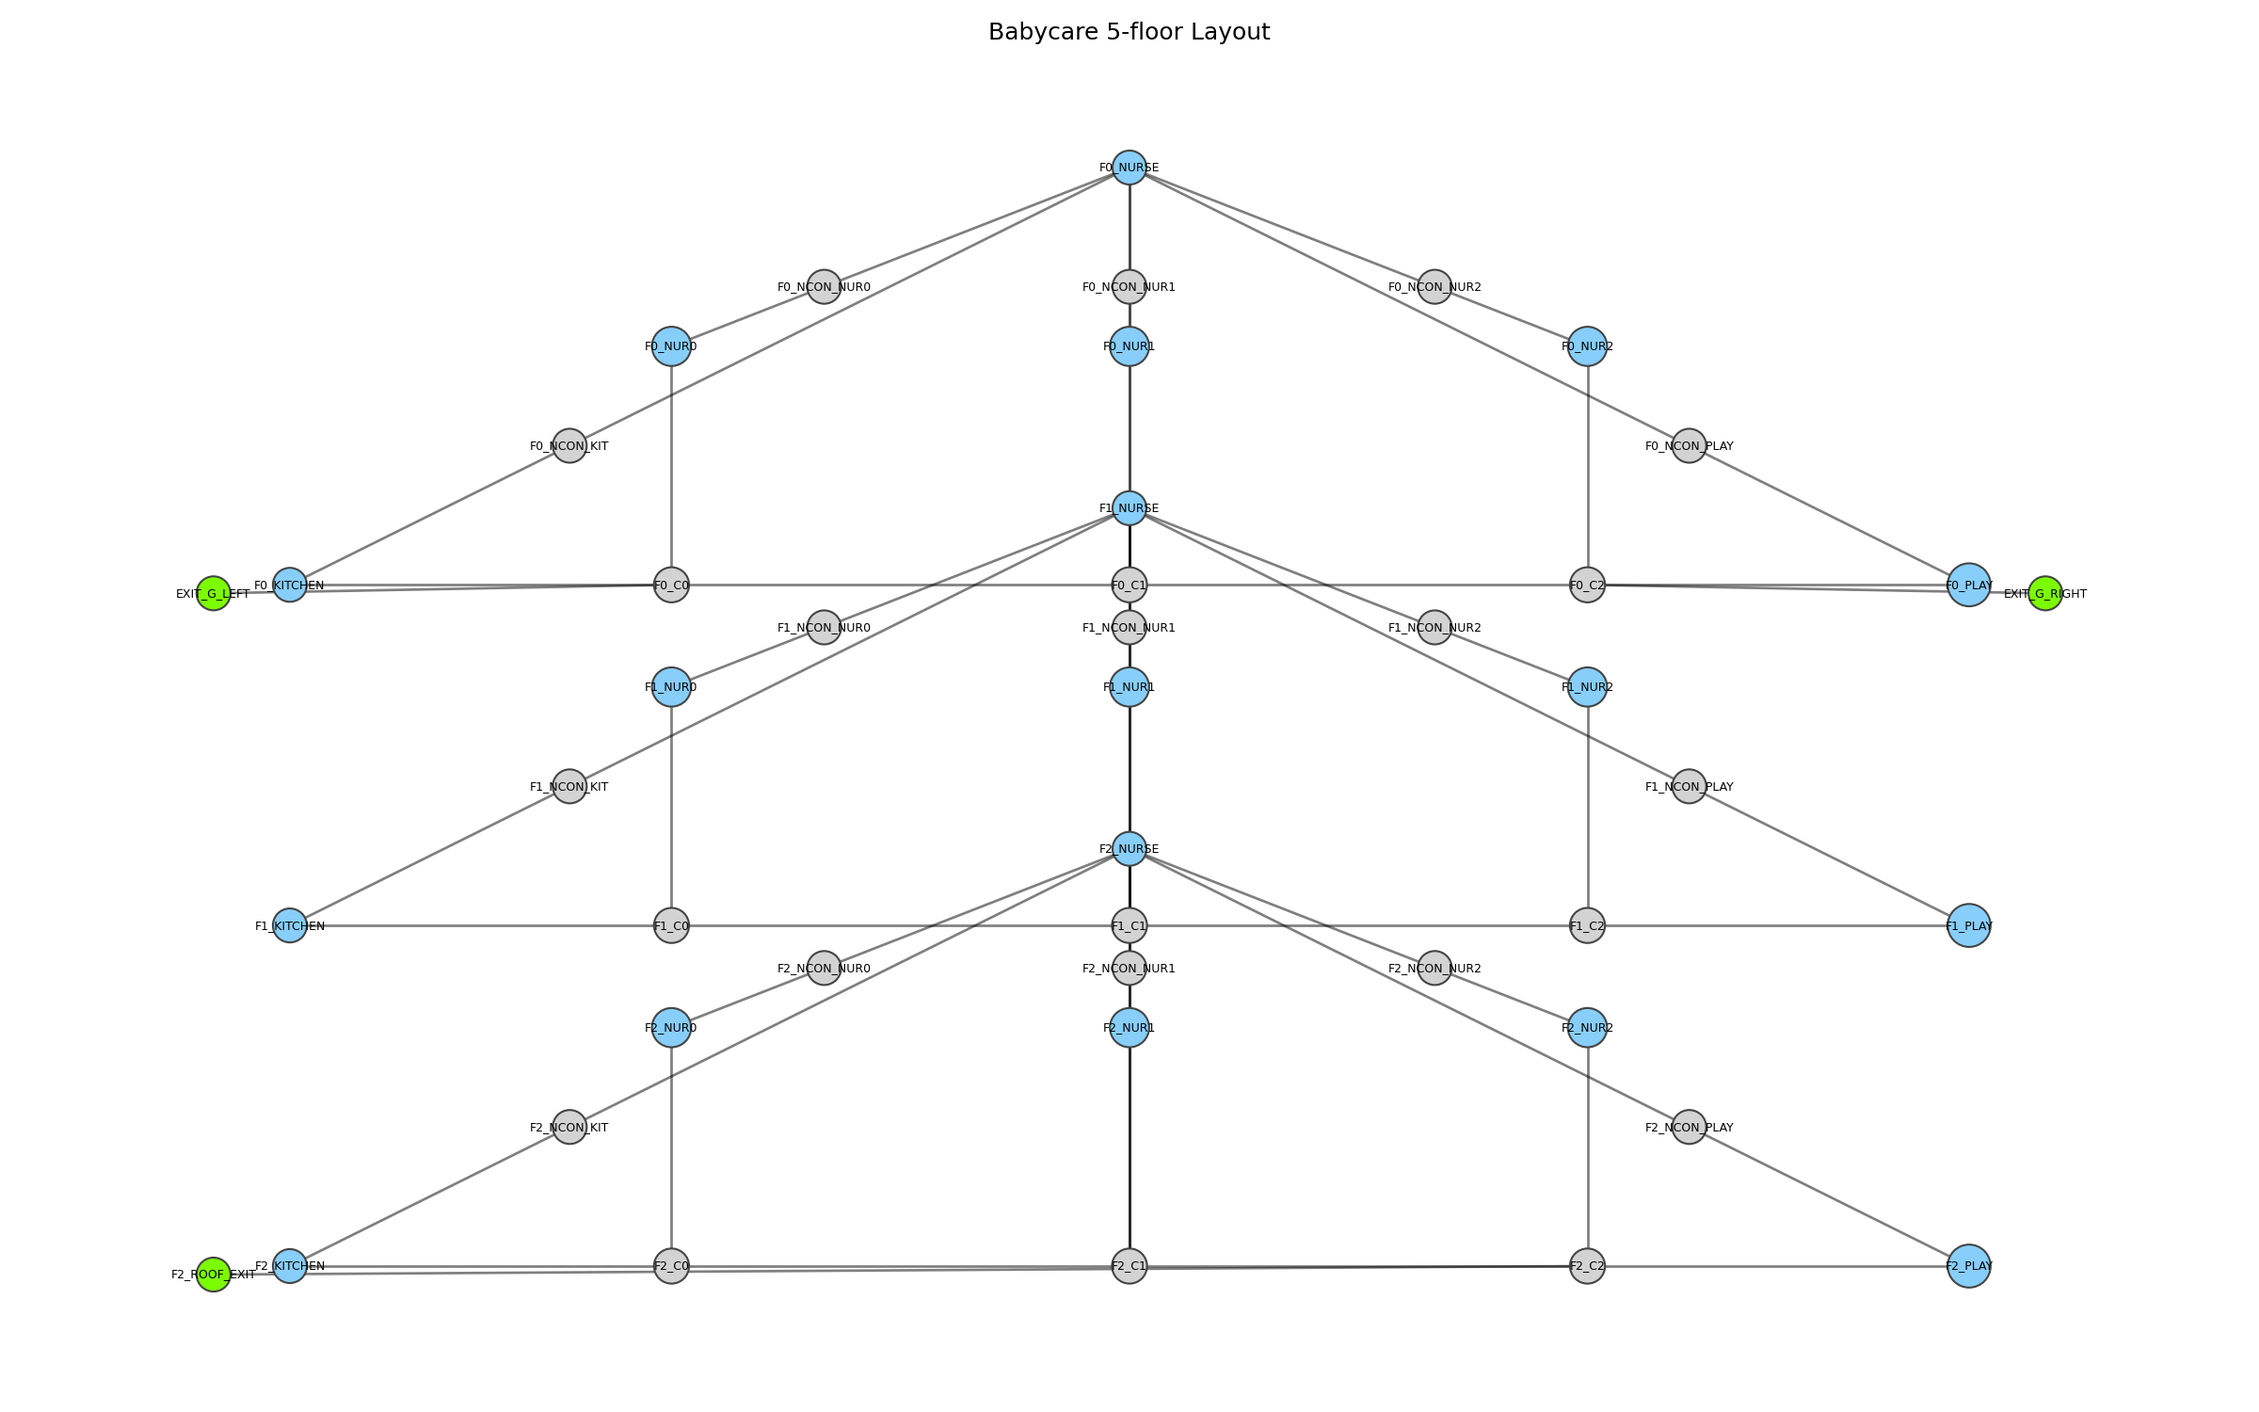
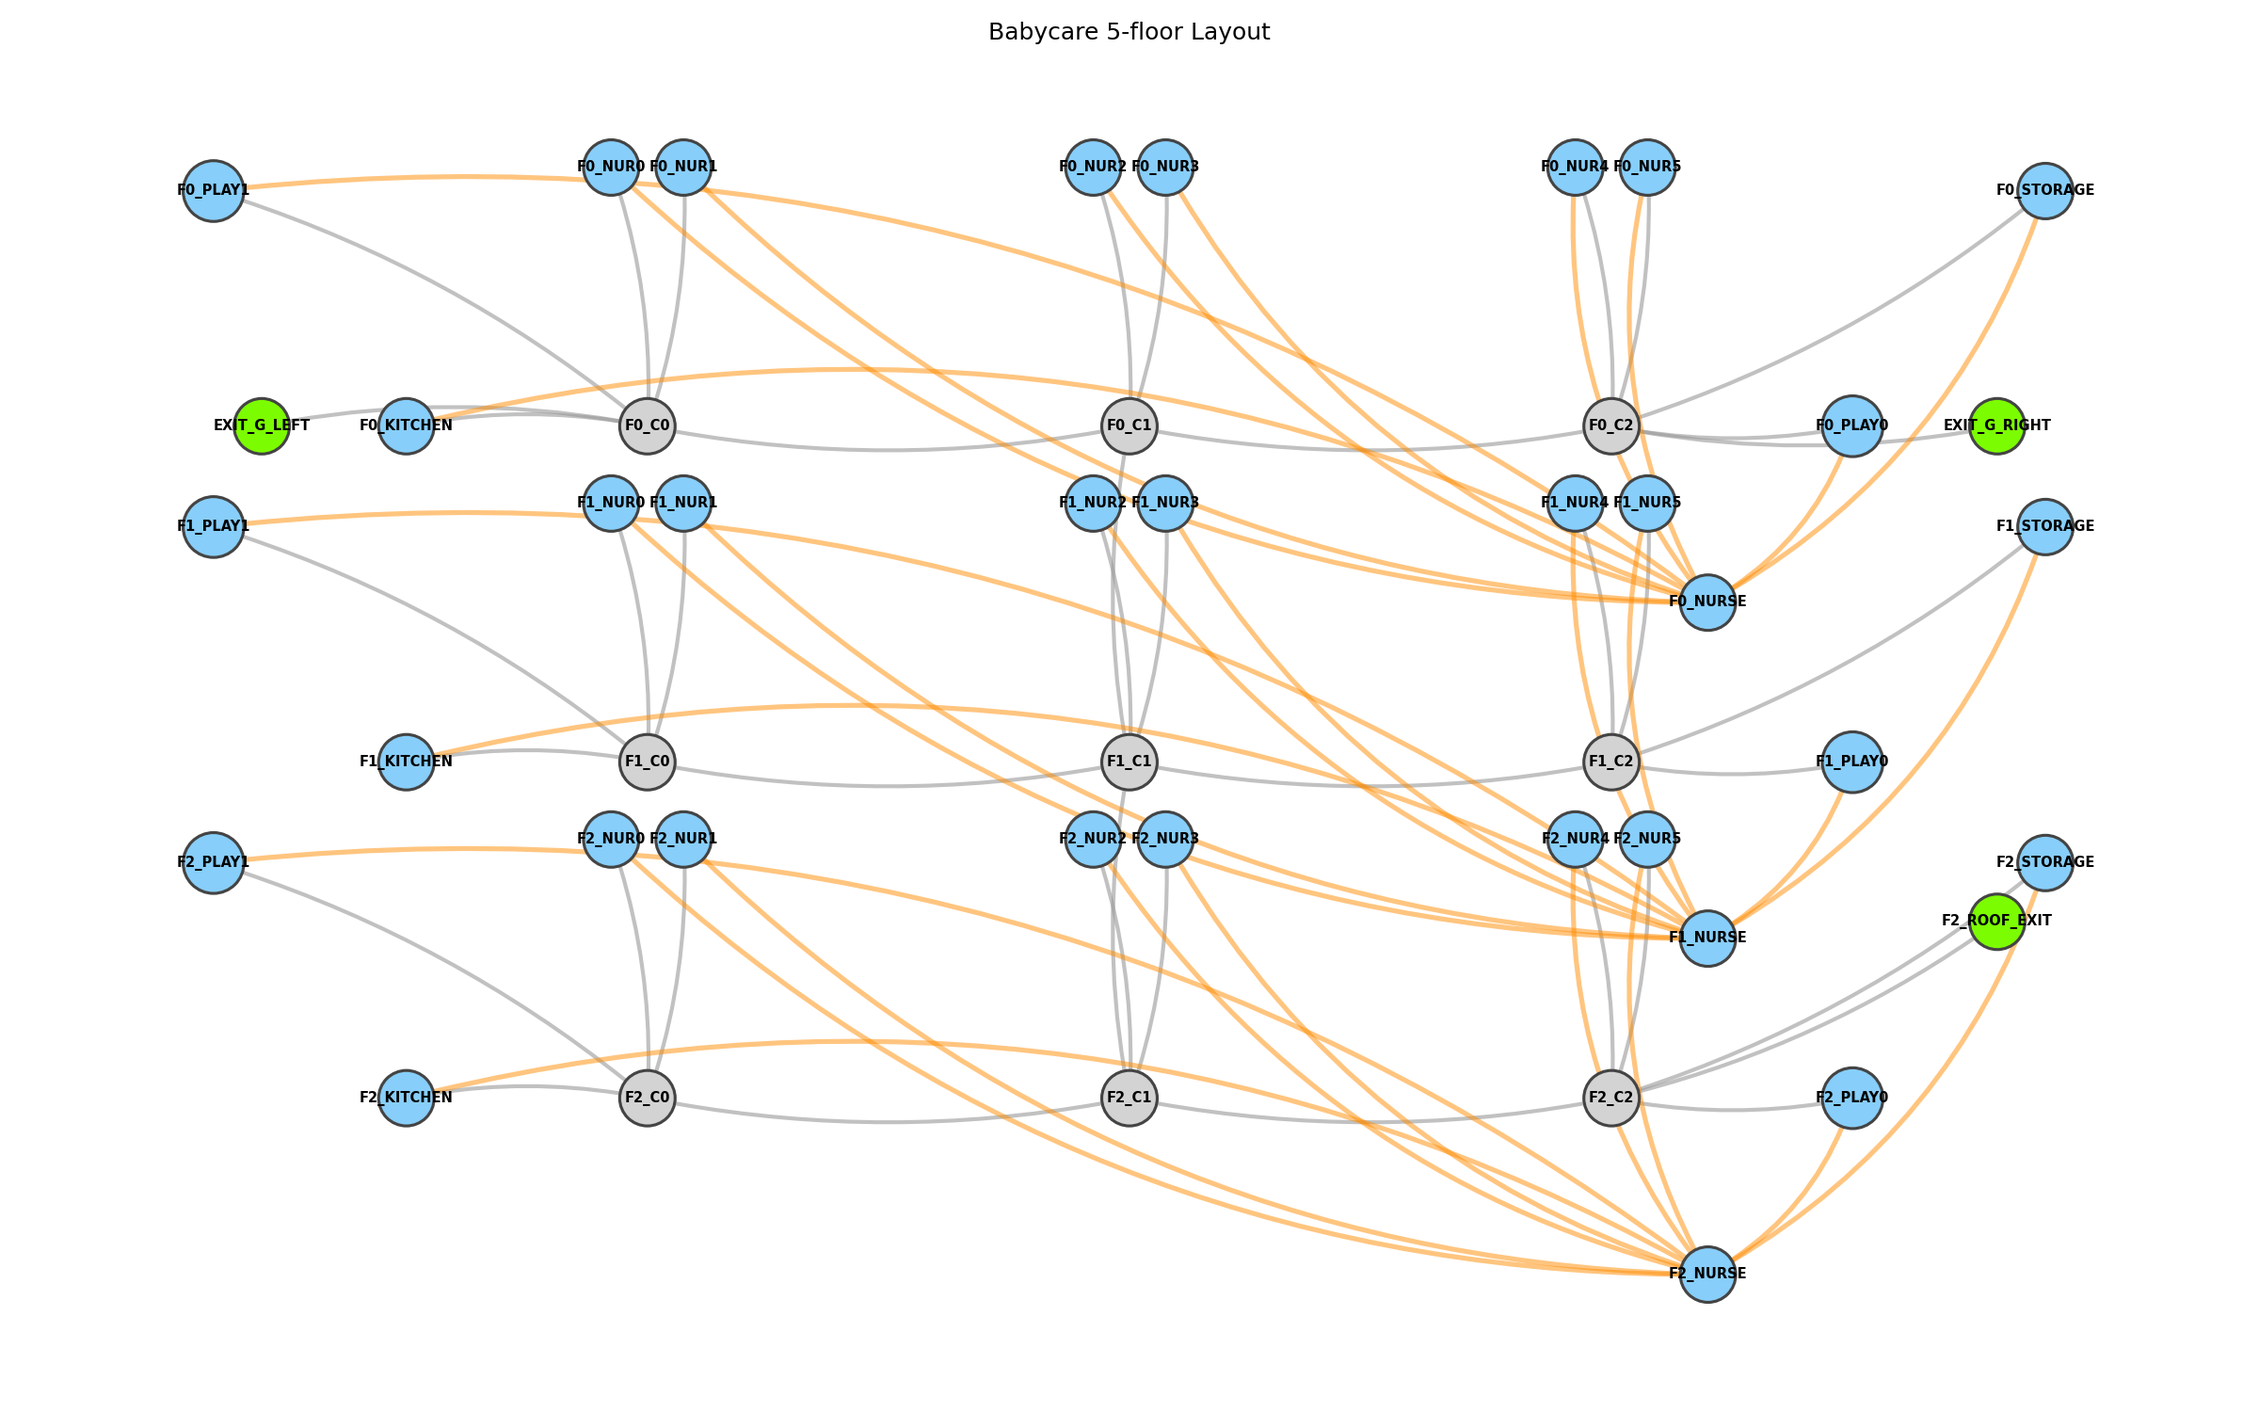
fucking visualized

diff --git a/src/scripts/visualize_layouts.py b/src/scripts/visualize_layouts.py
@@ -180,8 +180,8 @@ def compute_positions_by_floor(env):
             continue
 
         # Handle babycare floor heuristics
-        # Find any corridor nodes like F{f}_C0..C2
-        corridors = { }
+        # New clearer layout: horizontal corridors with rooms on sides, nurse station at center
+        corridors = {}
         for nid, meta in nodes:
             m = baby_corridor_re.match(nid)
             if m and int(m.group('f')) == f:
@@ -189,63 +189,73 @@ def compute_positions_by_floor(env):
                 corridors[i] = nid
 
         if corridors:
-            # order corridor indices
             idxs = sorted(corridors.keys())
             center_x = 0.0
-            # place corridors horizontally - main central axis with generous spacing
-            for pos_i, i in enumerate(idxs):
+            corridor_y = - (f * floor_gap)
+            
+            # Place corridors horizontally (C0, C1, C2)
+            # C0 on left, C1 in center, C2 on right
+            corridor_spacing = hall_x_gap * 10  # wider spacing
+            for i in idxs:
                 nid = corridors[i]
-                x = center_x + (pos_i - len(idxs)/2 + 0.5) * hall_x_gap * 6
-                y = - (f * floor_gap)
-                positions[nid] = (x, y)
+                x = center_x + (i - 1) * corridor_spacing  # C0=-10, C1=0, C2=+10
+                positions[nid] = (x, corridor_y)
 
-            # place nurse station at center top - key focal point
+            # Nurse station at lower side position to avoid overlap
             nurse_id = f"F{f}_NURSE"
             if nurse_id in env.nodes:
-                positions[nurse_id] = (center_x, - (f * floor_gap) + hall_y_gap * 3.5)
+                positions[nurse_id] = (center_x + corridor_spacing * 1.2, corridor_y - hall_y_gap * 1.5)
 
-            # place nurseries in a row above corridors, aligned and well-spaced
-            for nid, meta in nodes:
-                m = baby_nur_re.match(nid)
-                if m and int(m.group('f')) == f:
-                    r = int(m.group('r'))
-                    cor = corridors.get(r)
-                    if cor and cor in positions:
-                        cx, cy = positions[cor]
-                        # align nurseries above their corresponding corridors
-                        positions[nid] = (cx, cy + hall_y_gap * 2.0)
+            # Place nurseries: 2 nurseries per corridor, very close together
+            # NUR0, NUR1 above C0; NUR2, NUR3 above C1; NUR4, NUR5 above C2
+            for r in range(6):
+                nur_id = f"F{f}_NUR{r}"
+                if nur_id in env.nodes:
+                    corridor_idx = r // 2  # 0-1 -> C0, 2-3 -> C1, 4-5 -> C2
+                    side_offset = (r % 2 - 0.5) * hall_x_gap * 1.5  # tighter spacing
+                    cor_x = center_x + (corridor_idx - 1) * corridor_spacing
+                    positions[nur_id] = (cor_x + side_offset, corridor_y + hall_y_gap * 2.2)
 
-            # play area: place to the far right
-            play = f"F{f}_PLAY"
-            kit = f"F{f}_KITCHEN"
-            if play in env.nodes:
-                last_c = corridors.get(idxs[-1])
-                if last_c and last_c in positions:
-                    cx, cy = positions[last_c]
-                    positions[play] = (cx + hall_x_gap * 5, cy)
+            # Kitchen at far left, aligned with corridor level
+            kit_id = f"F{f}_KITCHEN"
+            if kit_id in env.nodes:
+                x = center_x - 1 * corridor_spacing - hall_x_gap * 5
+                positions[kit_id] = (x, corridor_y)
+
+            # Play areas: PLAY0 at far right, PLAY1 at left
+            play0_id = f"F{f}_PLAY0"
+            if play0_id in env.nodes:
+                x = center_x + 1 * corridor_spacing + hall_x_gap * 5
+                positions[play0_id] = (x, corridor_y)
             
-            # kitchen: place to the far left
-            if kit in env.nodes:
-                first_c = corridors.get(idxs[0])
-                if first_c and first_c in positions:
-                    cx, cy = positions[first_c]
-                    positions[kit] = (cx - hall_x_gap * 5, cy)
+            play1_id = f"F{f}_PLAY1"
+            if play1_id in env.nodes:
+                x = center_x - 1 * corridor_spacing - hall_x_gap * 9
+                positions[play1_id] = (x, corridor_y + hall_y_gap * 2)
 
-            # nurse connector halls: place strategically between rooms and nurse station
-            for nid, meta in nodes:
-                if nid.startswith(f"F{f}_NCON_"):
-                    target = None
-                    if "NUR" in nid and "_NUR" in nid:
-                        target = nid.replace("NCON_", "")
-                    elif "PLAY" in nid:
-                        target = f"F{f}_PLAY"
-                    elif "KIT" in nid:
-                        target = f"F{f}_KITCHEN"
-                    if target and target in positions and nurse_id in positions:
-                        tx, ty = positions[target]
-                        nxp, nyp = positions[nurse_id]
-                        # place connector closer to the room (2/3 of the way from nurse to room)
-                        positions[nid] = ((tx * 2 + nxp) / 3.0, (ty * 2 + nyp) / 3.0)
+            # Storage room at far right upper area
+            storage_id = f"F{f}_STORAGE"
+            if storage_id in env.nodes:
+                x = center_x + 1 * corridor_spacing + hall_x_gap * 9
+                positions[storage_id] = (x, corridor_y + hall_y_gap * 2)
+            
+            # Place exits for babycare
+            # Ground floor exits
+            if f == 0:
+                if 'EXIT_G_LEFT' in env.nodes:
+                    c0_x, c0_y = positions.get(f'F0_C0', (0, 0))
+                    positions['EXIT_G_LEFT'] = (c0_x - corridor_spacing * 0.8, c0_y)
+                if 'EXIT_G_RIGHT' in env.nodes:
+                    c2_x, c2_y = positions.get(f'F0_C2', (0, 0))
+                    positions['EXIT_G_RIGHT'] = (c2_x + corridor_spacing * 0.8, c2_y)
+            
+            # Roof exit on top floor
+            if f == 2:
+                roof_exit = 'F2_ROOF_EXIT'
+                if roof_exit in env.nodes:
+                    c2_x, c2_y = positions.get(f'F2_C2', (0, 0))
+                    positions[roof_exit] = (c2_x + corridor_spacing * 0.8, c2_y + hall_y_gap * 1.5)
+            
             processed_floors.add(f)
             continue
 
@@ -314,17 +324,43 @@ def draw_env(env, out_path, title=None):
     for nid, meta in env.nodes.items():
         node_type = getattr(meta, 'ntype', 'room')
         node_colors.append(NODE_COLOR_MAP.get(node_type, '#CCCCCC'))
-        # Size by area if available (larger baseline for clarity)
+        # Increased base size for better visibility
         area = getattr(meta, 'area', 10.0)
-        node_sizes.append(max(300, min(2500, area * 20)))
+        node_sizes.append(max(800, min(4000, area * 40)))
         labels[nid] = nid
 
-    # Draw edges
-    nx.draw_networkx_edges(G, pos, alpha=0.5, width=1.3)
+    # Determine if this is a babycare layout
+    is_babycare = any('_NUR' in nid or '_NURSE' in nid for nid in G.nodes())
+    
+    if is_babycare:
+        # Draw edges with curved connections for babycare only
+        # Separate nurse station connections for special styling
+        nurse_edges = []
+        normal_edges = []
+        
+        for u, v in G.edges():
+            if 'NURSE' in u or 'NURSE' in v:
+                nurse_edges.append((u, v))
+            else:
+                normal_edges.append((u, v))
+        
+        # Draw normal edges with curves (using arrows=True for curved edges)
+        nx.draw_networkx_edges(G, pos, edgelist=normal_edges, alpha=0.6, width=2.0, 
+                              edge_color='#999999', arrows=True, arrowstyle='-',
+                              connectionstyle='arc3,rad=0.1', min_source_margin=15, min_target_margin=15)
+        
+        # Draw nurse station edges with more pronounced curves
+        nx.draw_networkx_edges(G, pos, edgelist=nurse_edges, alpha=0.5, width=2.5, 
+                              edge_color='#FF8C00', arrows=True, arrowstyle='-',
+                              connectionstyle='arc3,rad=0.2', min_source_margin=15, min_target_margin=15)
+    else:
+        # Draw straight edges for other layouts, also thicker
+        nx.draw_networkx_edges(G, pos, alpha=0.6, width=2.0, edge_color='#999999')
+    
     # Draw nodes
-    nx.draw_networkx_nodes(G, pos, node_color=node_colors, node_size=node_sizes, edgecolors='#444444', linewidths=1.0)
-    # Optional: draw labels
-    nx.draw_networkx_labels(G, pos, labels, font_size=6)
+    nx.draw_networkx_nodes(G, pos, node_color=node_colors, node_size=node_sizes, edgecolors='#444444', linewidths=1.5)
+    # Optional: draw labels with better font
+    nx.draw_networkx_labels(G, pos, labels, font_size=7, font_weight='bold')
 
     plt.axis('off')
     plt.tight_layout()

diff --git a/src/Env_sim/layouts.py b/src/Env_sim/layouts.py
@@ -128,7 +128,7 @@ def build_babycare_layout() -> BuildingFireEnvironment:
     env = BuildingFireEnvironment()
 
     FLOORS = 3  # reduced to 3 floors for clearer visualization
-    # For each floor create 3 corridor segments (C0, C1, C2), 3 nurseries, 1 nurse room, 1 play area, 1 kitchen
+    # For each floor create 3 corridor segments (C0, C1, C2), 6 nurseries, 1 nurse room, 2 play areas, 1 kitchen, 1 storage room
     for f in range(FLOORS):
         # Corridors
         for i in range(3):
@@ -138,46 +138,42 @@ def build_babycare_layout() -> BuildingFireEnvironment:
         env.add_edge(f"F{f}_C0", f"F{f}_C1", length=8.0, width=2.2, door=False)
         env.add_edge(f"F{f}_C1", f"F{f}_C2", length=8.0, width=2.2, door=False)
 
-        # Nurseries (3 per floor)
-        for r in range(3):
+        # Nurseries (6 per floor - 2 per corridor)
+        for r in range(6):
             nid = f"F{f}_NUR{r}"
+            corridor = f"F{f}_C{r // 2}"  # 0-1 → C0, 2-3 → C1, 4-5 → C2
             env.add_node(nid=nid, ntype="room", length=5.0, area=20.0, floor=f)
-            env.add_edge(nid, f"F{f}_C{r}", length=1.0, width=1.0, door=True)
+            env.add_edge(nid, corridor, length=1.0, width=1.0, door=True)
 
-        # Nurse room (one per floor, connected to central corridor)
+        # Nurse room (one per floor, NOT connected to corridor)
         nurse_nid = f"F{f}_NURSE"
         env.add_node(nid=nurse_nid, ntype="room", length=4.0, area=12.0, floor=f)
-        env.add_edge(nurse_nid, f"F{f}_C1", length=1.0, width=1.0, door=True)
+        # Nurse station connects directly to all rooms
 
-        # Play area
-        play_nid = f"F{f}_PLAY"
-        env.add_node(nid=play_nid, ntype="room", length=6.0, area=24.0, floor=f)
-        env.add_edge(play_nid, f"F{f}_C2", length=1.0, width=1.2, door=True)
+        # Play areas (2 per floor)
+        for p in range(2):
+            play_nid = f"F{f}_PLAY{p}"
+            corridor = f"F{f}_C{2 if p == 0 else 0}"  # PLAY0 → C2, PLAY1 → C0
+            env.add_node(nid=play_nid, ntype="room", length=6.0, area=24.0, floor=f)
+            env.add_edge(play_nid, corridor, length=1.0, width=1.2, door=True)
 
         # Kitchen / service
         kit_nid = f"F{f}_KITCHEN"
         env.add_node(nid=kit_nid, ntype="room", length=4.0, area=10.0, floor=f)
         env.add_edge(kit_nid, f"F{f}_C0", length=1.0, width=1.0, door=True)
 
-        # Special nurse-connection hallways: connect every room on this floor to the nurse station
-        # Nurseries
-        for r in range(3):
-            con_nid = f"F{f}_NCON_NUR{r}"
-            env.add_node(nid=con_nid, ntype="hall", length=3.0, area=6.0, floor=f)
-            env.add_edge(f"F{f}_NUR{r}", con_nid, length=1.0, width=1.0, door=False)
-            env.add_edge(con_nid, nurse_nid, length=1.0, width=1.0, door=False)
+        # Storage room
+        storage_nid = f"F{f}_STORAGE"
+        env.add_node(nid=storage_nid, ntype="room", length=4.0, area=10.0, floor=f)
+        env.add_edge(storage_nid, f"F{f}_C2", length=1.0, width=1.0, door=True)
 
-        # Play area connection
-        con_play = f"F{f}_NCON_PLAY"
-        env.add_node(nid=con_play, ntype="hall", length=3.0, area=6.0, floor=f)
-        env.add_edge(play_nid, con_play, length=1.0, width=1.0, door=False)
-        env.add_edge(con_play, nurse_nid, length=1.0, width=1.0, door=False)
-
-        # Kitchen connection
-        con_kit = f"F{f}_NCON_KIT"
-        env.add_node(nid=con_kit, ntype="hall", length=3.0, area=6.0, floor=f)
-        env.add_edge(kit_nid, con_kit, length=1.0, width=1.0, door=False)
-        env.add_edge(con_kit, nurse_nid, length=1.0, width=1.0, door=False)
+        # Connect nurse station directly to all rooms (but not to corridors)
+        for r in range(6):
+            env.add_edge(nurse_nid, f"F{f}_NUR{r}", length=2.0, width=1.0, door=True)
+        for p in range(2):
+            env.add_edge(nurse_nid, f"F{f}_PLAY{p}", length=2.0, width=1.0, door=True)
+        env.add_edge(nurse_nid, kit_nid, length=2.0, width=1.0, door=True)
+        env.add_edge(nurse_nid, storage_nid, length=2.0, width=1.0, door=True)
 
     # Connect vertical circulation: stairs between floors
     for f in range(FLOORS - 1):
@@ -201,7 +197,7 @@ def build_babycare_layout() -> BuildingFireEnvironment:
         env.spawn_person(f"F{f}_NURSE", age=36, mobility="staff", hp=100.0)
 
         # Few infants and caregivers in nurseries
-        for r in range(3):
+        for r in range(6):
             # caregiver
             env.spawn_person(f"F{f}_NUR{r}", age=28 + r, mobility="adult", hp=100.0)
             # infant (mobility set to 'infant' so environment logic can treat specially)

diff --git a/src/scripts/analyze_babycare.py b/src/scripts/analyze_babycare.py
@@ -1,0 +1,43 @@
+"""Analyze babycare layout structure"""
+import sys
+sys.path.insert(0, "/Users/qzy/Projects/GoHiMCM")
+
+from src.Env_sim.layouts import build_babycare_layout
+
+env = build_babycare_layout()
+
+print("=" * 70)
+print("BABYCARE LAYOUT ANALYSIS")
+print("=" * 70)
+
+for f in range(3):
+    nodes = [(n, env.nodes[n]) for n in env.nodes.keys() if env.nodes[n].floor == f]
+    halls = [n for n, meta in nodes if meta.ntype == 'hall']
+    rooms = [n for n, meta in nodes if meta.ntype == 'room']
+    
+    print(f"\nFloor {f}: {len(nodes)} nodes total")
+    print(f"  Corridors (C0-C2): {[n for n in halls if '_C' in n]}")
+    print(f"  Nurse connectors: {[n for n in halls if 'NCON' in n]}")
+    print(f"  Nurseries: {[n for n in rooms if 'NUR' in n]}")
+    print(f"  Nurse station: {[n for n in rooms if n == f'F{f}_NURSE']}")
+    print(f"  Play area: {[n for n in rooms if 'PLAY' in n]}")
+    print(f"  Kitchen: {[n for n in rooms if 'KITCHEN' in n]}")
+
+print("\n" + "=" * 70)
+print("CONNECTIONS:")
+print("=" * 70)
+
+# Check nurse station connections
+for f in range(3):
+    nurse = f"F{f}_NURSE"
+    neighbors = list(env.G.neighbors(nurse))
+    print(f"\nFloor {f} Nurse Station connections:")
+    print(f"  {nurse} -> {neighbors}")
+
+# Check stairs
+print("\nStairs between floors:")
+for f in range(2):
+    c1_f0 = f"F{f}_C1"
+    c1_f1 = f"F{f+1}_C1"
+    if c1_f1 in env.G.neighbors(c1_f0):
+        print(f"  {c1_f0} <-> {c1_f1}")
